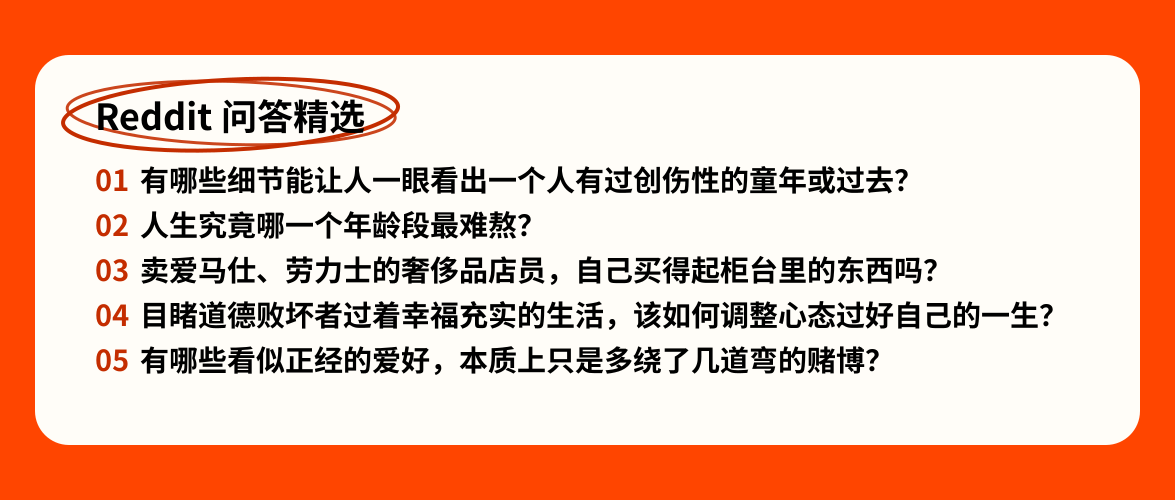
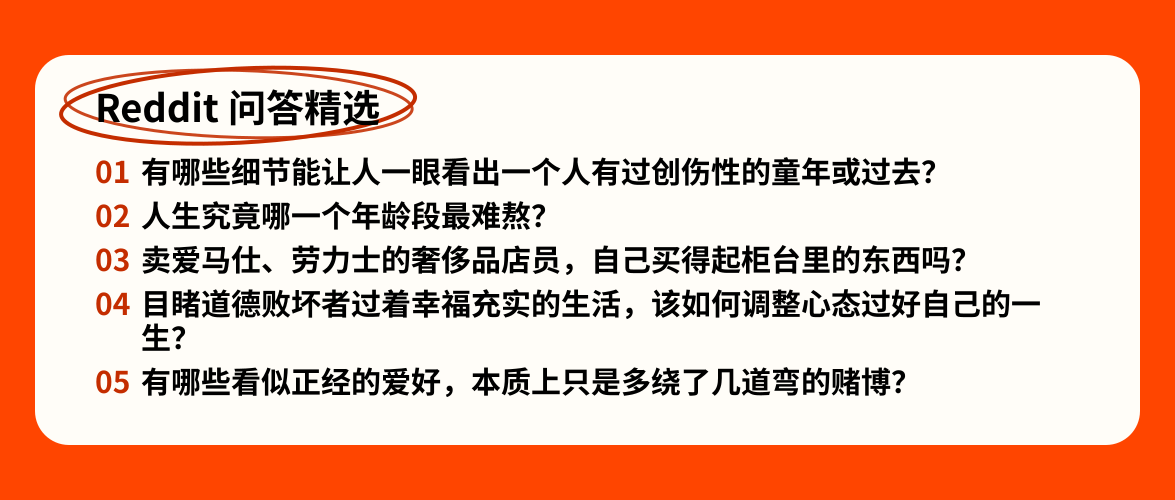
fix(reddit): improve WeChat cover spacing

Changed region(s): [[0.0306, 0.12, 0.9191, 0.81]]

diff --git a/scripts/wechat_cover_layout.ts b/scripts/wechat_cover_layout.ts
@@ -9,46 +9,55 @@ import { platformCard, type PlatformTheme, type SatoriNode } from "../src/utils/
 export const WECHAT_COVER_WIDTH = 1175;
 export const WECHAT_COVER_HEIGHT = 500;
 
-const BRAND_FONT_SIZE = 36;
+const BRAND_FONT_SIZE = 38;
 const BRAND_LINE_HEIGHT = 1.1;
 // 品牌行与条目区之间的呼吸，同时给笔圈下沿留出不压到第一条的余量。
 const BRAND_GAP = 26;
 
 const ENTRY_GAP = 10;
-const ENTRY_LINE_HEIGHT = 1.2;
+const ENTRY_LINE_HEIGHT = 1.14;
 // 编号栏宽 1.2em：等宽拉丁一位 0.6em，两位正好占满，栏内不留缝——
 // 缝全部交给 ENTRY_NUMBER_GAP，调间距时只有一个地方要动。
 const ENTRY_NUMBER_WIDTH_EM = 1.2;
 const ENTRY_NUMBER_GAP = 10;
 
-// 上游译名卡在 40 字，40 × 20px = 800px 仍是单行，所以 20 是「最长标题也不折行」的下界。
-// 再往下缩字就小到封面读不清，与其继续缩不如让它折行。
-const MIN_FONT_SIZE = 20;
-// 两张封面都只收录五条，五条时高度约束算出来 34 左右，这个上界够不着。
-// 它只在将来条数变少时生效，免得三四条的封面把字撑到荒唐的大小。
-const MAX_FONT_SIZE = 44;
+// 长标题允许折成两行，字号不再被最极端的一条压到难以阅读。
+const MIN_FONT_SIZE = 26;
+const MAX_FONT_SIZE = 30;
+const MAX_ENTRY_LINES = 2;
 
-// 内框可用尺寸，由版式百分比推出（画布 1175×500，卡片 94%×78%，内框 89%×80%）：
+// 内框可用尺寸，由版式百分比推出（画布 1175×500，卡片 94%×78%，内框 89%×84%）：
 //   宽 = 1175 × 94% × 89% ≈ 983
-//   高 = 500 × 78% × 80% ≈ 312，扣掉品牌行 36 × 1.1 与 BRAND_GAP，条目区剩 246
+//   高 = 500 × 78% × 84% ≈ 328，扣掉品牌行与 BRAND_GAP，条目区剩 260
 const INNER_WIDTH = 983;
-const LIST_HEIGHT = Math.round(WECHAT_COVER_HEIGHT * 0.78 * 0.8 - BRAND_FONT_SIZE * BRAND_LINE_HEIGHT - BRAND_GAP);
+const LIST_HEIGHT = Math.round(WECHAT_COVER_HEIGHT * 0.78 * 0.84 - BRAND_FONT_SIZE * BRAND_LINE_HEIGHT - BRAND_GAP);
+
+function estimatedTextWidthEm(text: string): number {
+  return [...text].reduce((width, char) => {
+    if (/\s/.test(char)) return width + 0.35;
+    if (/^[A-Za-z0-9]$/.test(char)) return width + 0.6;
+    return width + (char.codePointAt(0)! <= 0x7f ? 0.5 : 1);
+  }, 0);
+}
+
+function entryLineCount(title: string, fontSize: number): number {
+  const titleWidth = INNER_WIDTH - fontSize * ENTRY_NUMBER_WIDTH_EM - ENTRY_NUMBER_GAP;
+  return Math.ceil((estimatedTextWidthEm(title) * fontSize) / titleWidth);
+}
 
 /**
- * 条目字号：取宽度与高度两个约束的较小值。
- * 宽度保证最长的一条不折行，高度保证 n 条不被 overflow 裁掉。
- *
- * 宽度那一侧要连编号栏一起解——栏宽本身按字号走，所以是
- *   longest × f + 1.2f + gap ≤ INNER_WIDTH，即 f ≤ (INNER_WIDTH − gap) / (longest + 1.2)
- *
- * CJK 字形按 1.0em 估宽，标题里的 ASCII 更窄，因此这个估计只会偏保守。
+ * 从大到小选择字号。每条最多折两行，再用实际折行总数校验列表高度；
+ * CJK 按 1em、ASCII 按近似字宽估算，避免英文括注把整张封面压到最小字号。
  */
 export function coverEntryFontSize(titles: string[]): number {
   if (!titles.length) throw new Error("WeChat cover font sizing needs at least one title");
-  const longest = Math.max(...titles.map(title => [...title].length));
-  const widthFit = Math.floor((INNER_WIDTH - ENTRY_NUMBER_GAP) / (longest + ENTRY_NUMBER_WIDTH_EM));
-  const heightFit = Math.floor((LIST_HEIGHT - ENTRY_GAP * (titles.length - 1)) / (titles.length * ENTRY_LINE_HEIGHT));
-  return Math.max(MIN_FONT_SIZE, Math.min(MAX_FONT_SIZE, widthFit, heightFit));
+  for (let fontSize = MAX_FONT_SIZE; fontSize >= MIN_FONT_SIZE; fontSize -= 1) {
+    const lineCounts = titles.map(title => entryLineCount(title, fontSize));
+    if (lineCounts.some(lines => lines > MAX_ENTRY_LINES)) continue;
+    const textHeight = lineCounts.reduce((sum, lines) => sum + lines, 0) * fontSize * ENTRY_LINE_HEIGHT;
+    if (textHeight + ENTRY_GAP * (titles.length - 1) <= LIST_HEIGHT) return fontSize;
+  }
+  return MIN_FONT_SIZE;
 }
 
 // 笔圈栏目名：两道椭圆描边错开角度，模仿手绘。
@@ -62,7 +71,7 @@ export function coverEntryFontSize(titles: string[]): number {
 //
 // 外层必须 alignSelf: flex-start，否则它在列里被拉伸到满宽，椭圆会跟着横跨整张卡片。
 // 全部按字号的比例给，图片消息的卡片用同一个圈但字号大得多；写死的 30/14/12 换到 72px
-// 品牌上会细成一根发丝。比例取自原先在 36px 下量定的值，因此封面那张图一像素不变。
+// 品牌上会细成一根发丝。比例取自原先在 36px 下量定的值，让不同字号保持相同的手绘线条比例。
 const BRAND_CIRCLE_INSET_X_EM = 30 / 36;
 const BRAND_CIRCLE_INSET_TOP_EM = 14 / 36;
 const BRAND_CIRCLE_INSET_BOTTOM_EM = 12 / 36;
@@ -115,7 +124,7 @@ function entryLine(title: string, index: number, fontSize: number, accent: strin
   return {
     type: "div",
     props: {
-      style: { display: "flex", alignItems: "baseline", width: "100%", fontSize, lineHeight: ENTRY_LINE_HEIGHT, overflow: "hidden" },
+      style: { display: "flex", alignItems: "flex-start", width: "100%", fontSize, lineHeight: ENTRY_LINE_HEIGHT, overflow: "hidden" },
       children: [
         {
           type: "span",
@@ -129,7 +138,7 @@ function entryLine(title: string, index: number, fontSize: number, accent: strin
             children: String(index + 1).padStart(2, "0"),
           },
         },
-        { type: "span", props: { style: { fontWeight: 700 }, children: title } },
+        { type: "span", props: { style: { display: "flex", flex: 1, minWidth: 0, fontWeight: 700 }, children: title } },
       ],
     },
   };
@@ -146,7 +155,7 @@ export function wechatCoverTree({ titles, brand, theme, fontFamily }: { titles: 
   return platformCard(theme, fontFamily, {
     type: "div",
     props: {
-      style: { display: "flex", flexDirection: "column", margin: "40px 60px", width: "89%", height: "80%" },
+      style: { display: "flex", flexDirection: "column", margin: "30px 60px", width: "89%", height: "84%" },
       children: [
         circledBrand(brand, theme.accent),
         {

diff --git a/docs/reddit-life-wechat-pipeline.md b/docs/reddit-life-wechat-pipeline.md
@@ -85,7 +85,7 @@ data/reddit-life-wechat/
     └── 06-<reddit-post-id>.md   # 第 6-10 帖
 ```
 
-`cover-N.png` 是每篇的专属列表封面，由 `reddit_life_wechat_cover.ts` 用 satori 渲染后随稿子提交，逐条列出本篇五帖标题和品牌；它不进入文章正文。期号与卷次均不显示。文件名用序号，条目字号由 `wechat_cover_layout.ts` 按「最长标题不折行」与「n 行不超出条目区」两个约束算出，与微博封面共用同一套尺寸。缺失时 `astro-wechat` 回落到配置里的 `defaultCover`，因此渲染失败只降级不中断。
+`cover-N.png` 是每篇的专属列表封面，由 `reddit_life_wechat_cover.ts` 用 satori 渲染后随稿子提交，逐条列出本篇五帖标题和品牌；它不进入文章正文。期号与卷次均不显示。文件名用序号，条目字号由 `wechat_cover_layout.ts` 从大到小试算，允许长标题最多折成两行，再按总行数确保列表不超出条目区；英文括注不再把整张封面压到最小字号。缺失时 `astro-wechat` 回落到配置里的 `defaultCover`，因此渲染失败只降级不中断。
 
 `run.json` v4 记录 manifest version、归档日期与时区、父任务提交 SHA / workflow run / 文章路径、上游快照路径、运行状态（`processed` 或 `upstream-empty`），以及模型名、候选总数和完整的入选/过滤决定与理由。入选帖同时记录 `sourceRank`、`selectionRank`、内部卷序号、产物路径和内容 hash。同一篇的五帖各占一条 `posts` 记录但共享同一个 `path`，发布前按 `path` 去重，去重后最多是两条路径。读取器继续兼容历史 v1/v2/v3 manifest，其中 v3 的 `leads` 只作历史数据校验，不进入新稿。
 
